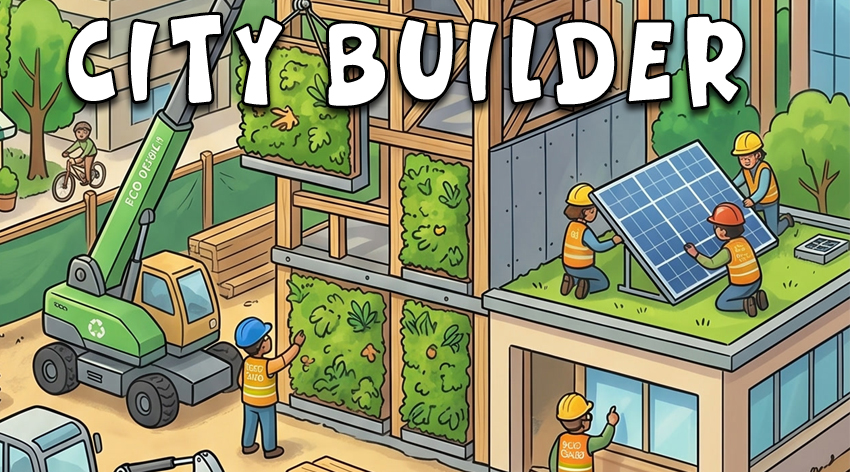
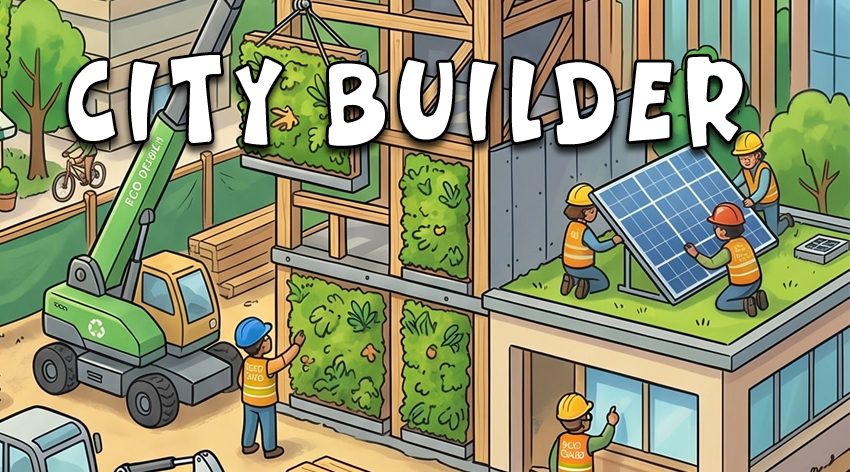
fix(map): mission cards -3% smaller, refresh citybuilderHORIZ image

Changed region(s): [[0.3671, 0.0297, 0.8871, 0.3559], [0.0612, 0.0297, 0.3365, 0.3263]]

diff --git a/src/pages/MissionMap.tsx b/src/pages/MissionMap.tsx
@@ -172,8 +172,8 @@ function CityBuilderCard({ onPlay }: { onPlay: () => void }) {
 // ─── Mission Card ──────────────────────────────────────────────────────────────
 
 function MissionCard({ imageFile, onPlay }: { imageFile: string; onPlay: () => void }) {
-  const w = 'calc((100vw - 80px) * 0.97)';
-  const h = 'calc((100vw - 80px) * 0.97 * 1.5)';
+  const w = 'calc((100vw - 80px) * 0.94)';
+  const h = 'calc((100vw - 80px) * 0.94 * 1.5)';
 
   return (
     <motion.div